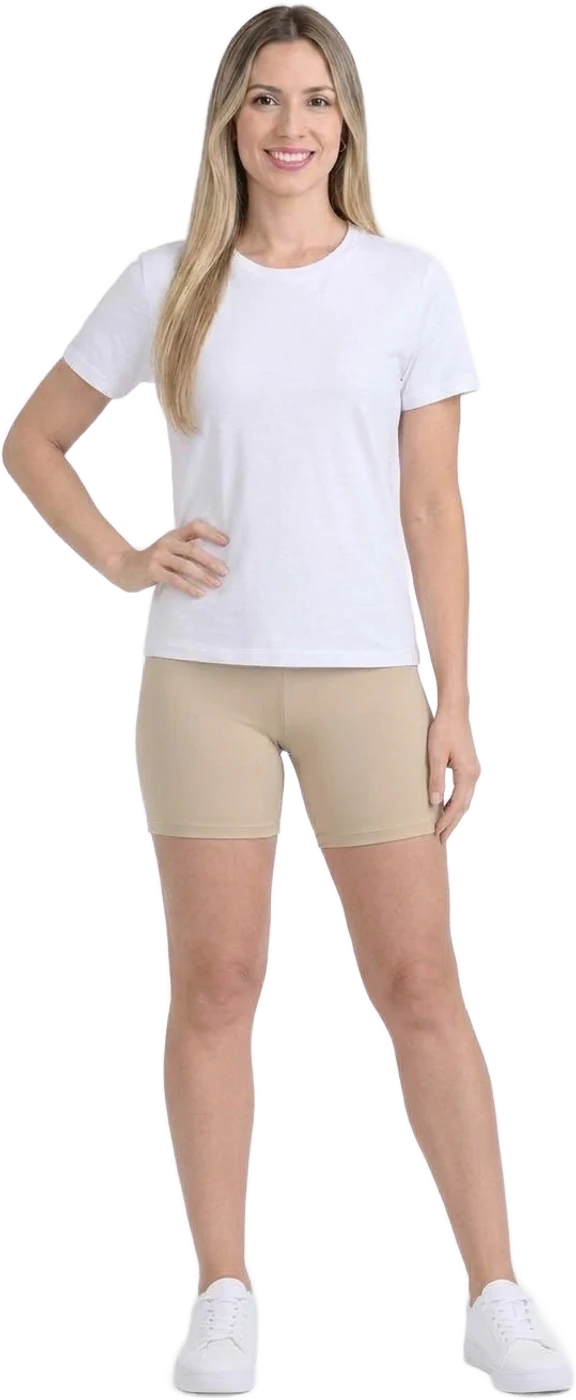
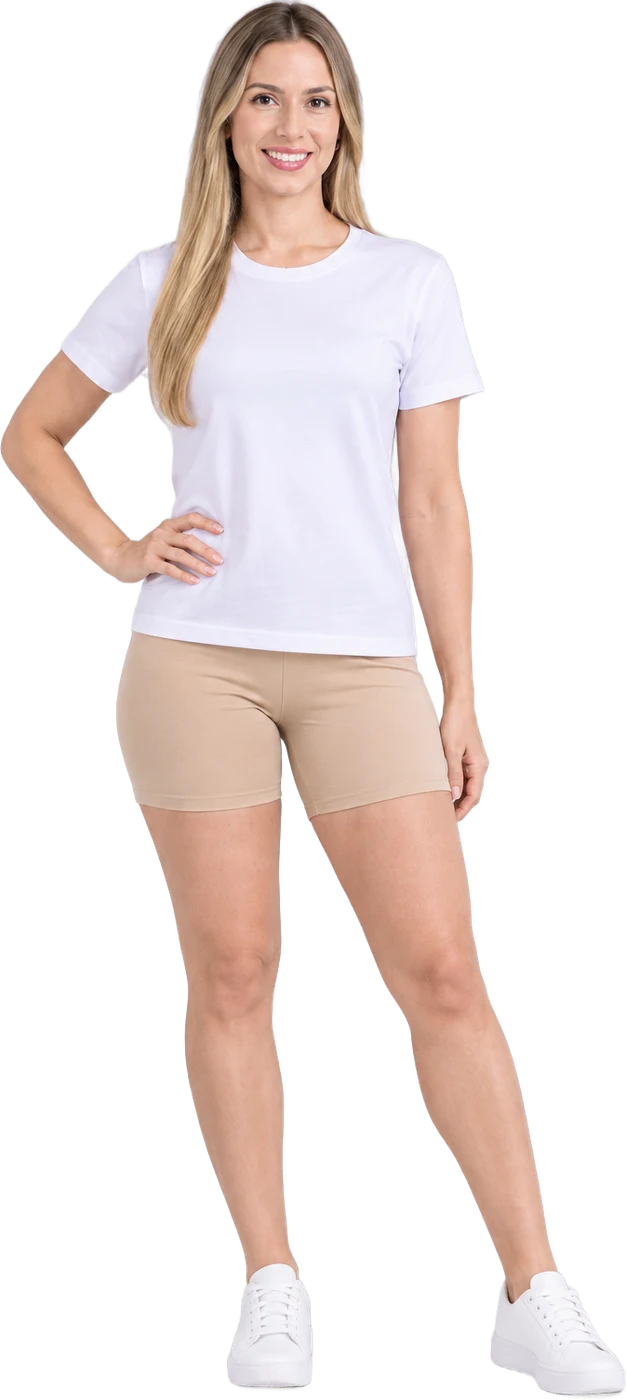
Closet: modelo nueva, acercamiento al calzado y primeros planos
- Nueva modelo base y 14 prendas/calzados con foto puesta (sin fondo).
- Al elegir un calzado, la cámara se acerca a las piernas con los pies fijos;
  si existe <id>-cerca.webp, el primer plano aparece al final (nítido).
- recortar-closet.mjs conserva la resolución completa de los primeros planos.
- Fotos de producto actualizadas y licra corta rosa fuera del catálogo.

Changed region(s): [[0.0, 0.0, 0.9062, 1.0], [0.9062, 0.9829, 1.0, 1.0], [0.9062, 0.9214, 0.9375, 0.9521]]

diff --git a/src/scripts/v2/closet.ts b/src/scripts/v2/closet.ts
@@ -38,6 +38,7 @@ function iniciar(seccion: HTMLElement) {
   const tarjetas = todos<HTMLLIElement>("[data-tarjeta]");
   const botonesGenero = todos<HTMLButtonElement>("[data-genero-boton]");
   const flechas = todos<HTMLButtonElement>("[data-flecha]");
+  const escenario = seccion.querySelector<HTMLElement>(".escenario")!;
 
   let genero = botonesGenero.find((b) => b.ariaPressed === "true")?.dataset.generoBoton ?? "mujer";
   const categoria: Record<string, string> = {};
@@ -59,8 +60,11 @@ function iniciar(seccion: HTMLElement) {
     el.classList.add(clase);
   }
 
-  /** Muestra exactamente estas capas del escenario: las nuevas entran y las que sobran se desvanecen. */
-  async function mostrar(capas: HTMLElement[]) {
+  /**
+   * Muestra exactamente estas capas del escenario: las nuevas entran y las que sobran se desvanecen.
+   * `acercar`: hacia dónde va la cámara (`"pies"` con el calzado) o nada para el cuerpo entero.
+   */
+  async function mostrar(capas: HTMLElement[], acercar?: string) {
     const yo = ++turno;
     capas.forEach(precargar);
     // Esperar a que la foto nueva esté lista evita un fundido hacia el vacío.
@@ -68,6 +72,10 @@ function iniciar(seccion: HTMLElement) {
       capas.flatMap((c) => [...c.querySelectorAll("img")]).map((img) => (img.complete ? null : img.decode().catch(() => null))),
     );
     if (yo !== turno) return;
+
+    // La cámara se mueve junto con el fundido, cuando la foto nueva ya está lista: así no salta.
+    if (acercar) escenario.dataset.acercar = acercar;
+    else delete escenario.dataset.acercar;
 
     for (const el of visible) {
       if (capas.includes(el)) continue;
@@ -97,7 +105,9 @@ function iniciar(seccion: HTMLElement) {
 
     const capa = clave ? vista(clave) : null;
     const conModelo = capa?.hasAttribute("data-con-modelo");
-    void mostrar([conModelo ? null : base(genero), capa].filter((c): c is HTMLElement => !!c));
+    // Calzado con foto puesta: la cámara se acerca a las piernas (ver `data-acercar` en el CSS).
+    const acercar = conModelo ? capa?.dataset.acercar : undefined;
+    void mostrar([conModelo ? null : base(genero), capa].filter((c): c is HTMLElement => !!c), acercar);
   }
 
   function elegirCategoria(c: string) {
@@ -132,7 +142,7 @@ function iniciar(seccion: HTMLElement) {
     const fin = carril.scrollWidth - carril.clientWidth - 2;
     flechas.forEach((f) => (f.disabled = f.dataset.flecha === "-1" ? carril.scrollLeft <= 2 : carril.scrollLeft >= fin));
     // En escritorio las tarjetas pasan detrás del modelo: las que quedan tapadas se atenúan.
-    const cuerpo = seccion.querySelector(".escenario > :not([hidden]):not(.flotante) img")?.getBoundingClientRect();
+    const cuerpo = seccion.querySelector(".camara > :not([hidden]) img")?.getBoundingClientRect();
     tarjetas.forEach((t) => {
       if (t.hidden) return;
       const r = t.getBoundingClientRect();
@@ -164,6 +174,10 @@ function iniciar(seccion: HTMLElement) {
   carril.addEventListener("focusin", anticipar);
   carril.addEventListener("scroll", actualizarFlechas, { passive: true });
   addEventListener("resize", actualizarFlechas, { passive: true });
+  // Al terminar un acercamiento el modelo ocupa otro espacio: recalcular qué tarjetas tapa.
+  escenario.addEventListener("transitionend", (e) => {
+    if (e.propertyName === "transform" && (e.target as HTMLElement).classList.contains("camara")) actualizarFlechas();
+  });
 
   visible = [base(genero)].filter((c): c is HTMLElement => !!c);
   elegirGenero(genero);

diff --git a/src/lib/closet.ts b/src/lib/closet.ts
@@ -4,6 +4,8 @@
  * - Las prendas se eligen en `src/data/v2.json` → `closet` → mujer|hombre → categoría → ids.
  * - En el escenario SOLO sale el modelo inventado: fotos de `src/assets/closet/`, nunca las de otras modelos.
  *   - `<id>.webp`: el modelo con esa prenda puesta.
+ *   - `<id>-cerca.webp` (opcional, para calzado): primer plano de las piernas con esa prenda, para que
+ *     el acercamiento se vea nítido. Sin él, el acercamiento agranda la foto de cuerpo entero.
  *   - Sin esa foto, se ve el modelo base y la prenda a su lado.
  * - Modelo base: `src/assets/closet/base-mujer.webp` / `base-hombre.webp`. Un género sin modelo base
  *   no sale en el closet (se oculta su botón) hasta que exista la foto.
@@ -56,6 +58,8 @@ export type PiezaCloset = Producto & {
   miniatura: ImageMetadata;
   /** Foto del modelo con la prenda puesta, o `null` (se muestra el modelo base + la prenda). */
   modelo: ImageMetadata | null;
+  /** Primer plano de las piernas con la prenda (calzado), o `null`. */
+  cerca: ImageMetadata | null;
 };
 
 export type GrupoCloset = {
@@ -88,6 +92,7 @@ function cargar(): GrupoCloset[] {
             // En la tarjeta, la prenda sola; si el recorte es de una modelo, la foto del catálogo.
             miniatura: recorte && !cuerpoEntero(recorte) ? recorte : producto.fotos[0],
             modelo: generadas.get(id) ?? null,
+            cerca: generadas.get(`${id}-cerca`) ?? null,
           },
         ];
       });
